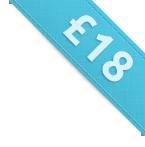
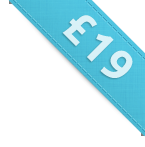
updated pricing etc

Changed region(s): [[0.6897, 0.3265, 0.9103, 0.5714], [0.9103, 0.4082, 0.9379, 0.4354]]

diff --git a/css/colors.css b/css/colors.css
@@ -18,7 +18,7 @@ body.blue #content #right .buttons .buy, body.blue .last_chance .buy {
 	background: url(../img/colorstyles/buy_blue.png) no-repeat;
 }
 body.blue #content #banner {
-	background: url(../img/colorstyles/banner_blue.png) no-repeat;
+	background: url(../img/banner_2.png) no-repeat;
 }
 /*-------------  Green   -------------*/
 body.green a {

diff --git a/application/views/details.php b/application/views/details.php
@@ -74,18 +74,18 @@
 			<div class="portlet-content">
 				
 											
-						<form action="#" method="post" class="form label-inline">
+						<form action="<?php echo $base_url.'details';?>" method="post" class="form label-inline">
 	
-							<div class="field"><label for="fname">Your Full Name </label> <input id="fname" name="fname" size="50" type="text" class="medium" /></div>
-							<div class="field"><label for="mobile">Mobile No.</label> <input id="address2" size="50" type="text" class="large" /></div>
-							<div class="field"><label for="email">Email</label> <input id="address2" size="50" type="text" class="large" /></div>
+							<div class="field"><label for="fname">Your Full Name </label> <input id="fname" name="fullname" size="50" type="text" class="medium" /></div>
+							<div class="field"><label for="mobile">Mobile No.</label> <input id="address2" name='mobile' size="50" type="text" class="large" /></div>
+							<div class="field"><label for="email">Email</label> <input id="address2" name='email_add' size="50" type="text" class="large" /></div>
 							
-								<p class="field_help">These are to log you into the DSA Website. We don't keep this information in plain text.</p>
-							<div class="field"><label for="theory">Theory Test Pass Certificate Number</label> <input id="address2" size="50" type="text" class="large" /></div>
-							<div class="field"><label for="Application_Reference">Appication Reference Number</label> <input id="address2" size="50" type="text" class="large" /></div>
+								<p class="field_help">These are to log you into the DSA Website. We don't look at this information.</p>
+							<div class="field"><label for="theory">Theory Test Pass Certificate Number</label> <input id="address2" name='theory' size="50" type="text" class="large" /></div>
+							<div class="field"><label for="Application_Reference">Appication Reference Number</label> <input id="address2" name='application_reference' size="50" type="text" class="large" /></div>
 
 							</div>
-							<div class="field phone_field"><label for="date">Book my test before this date </label> <input id="telephone" size="3" type="text" class="xsmall" /> - <input size="3" type="text" class="xsmall" /> - <input size="4" type="text" class="xsmall" />
+							<div class="field phone_field"><label for="date">Book my test before this date </label> <input id="telephone" name='' size="3" type="text" class="xsmall" /> - <input size="3" type="text" class="xsmall" /> - <input size="4" type="text" class="xsmall" />
 
 							</div>
 		
